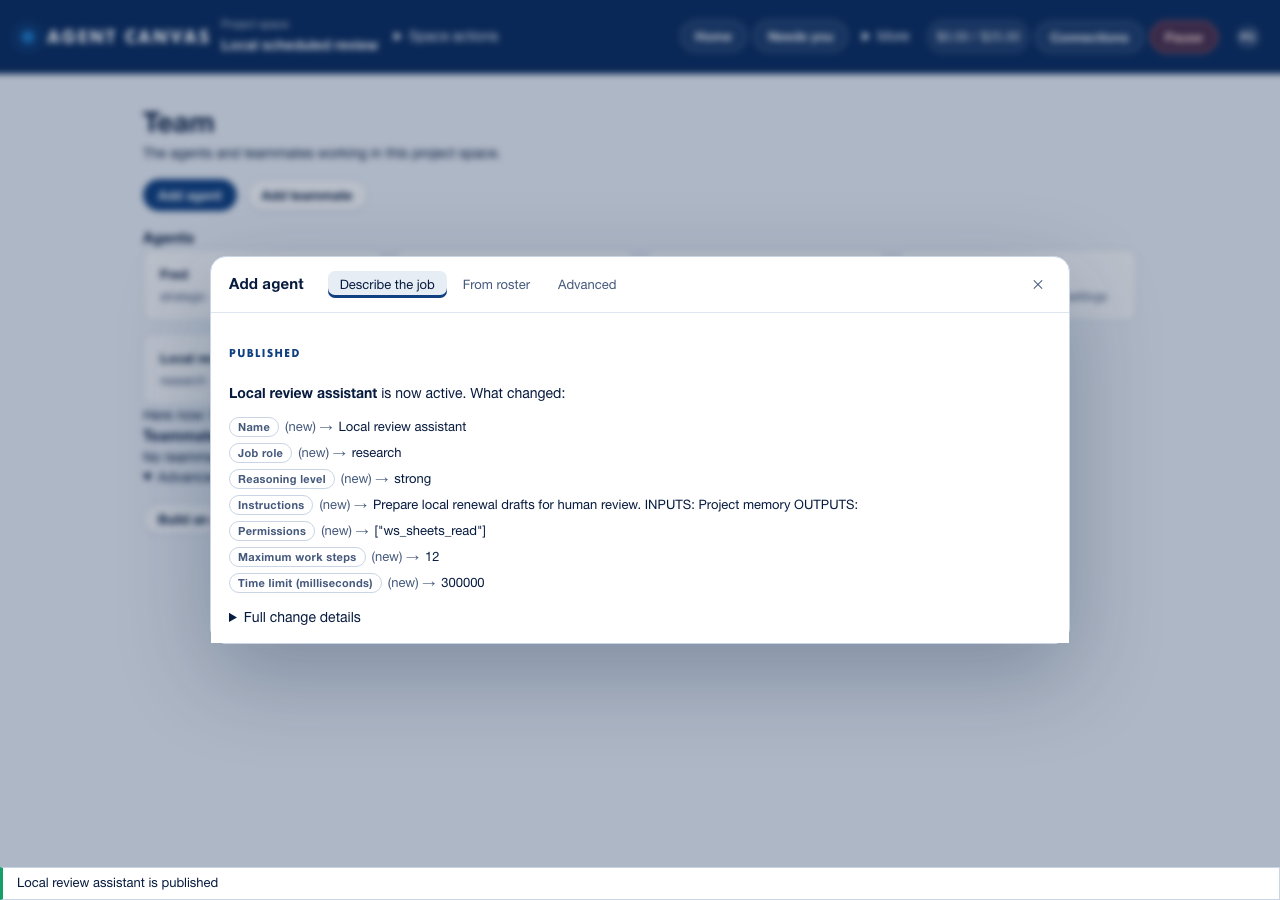
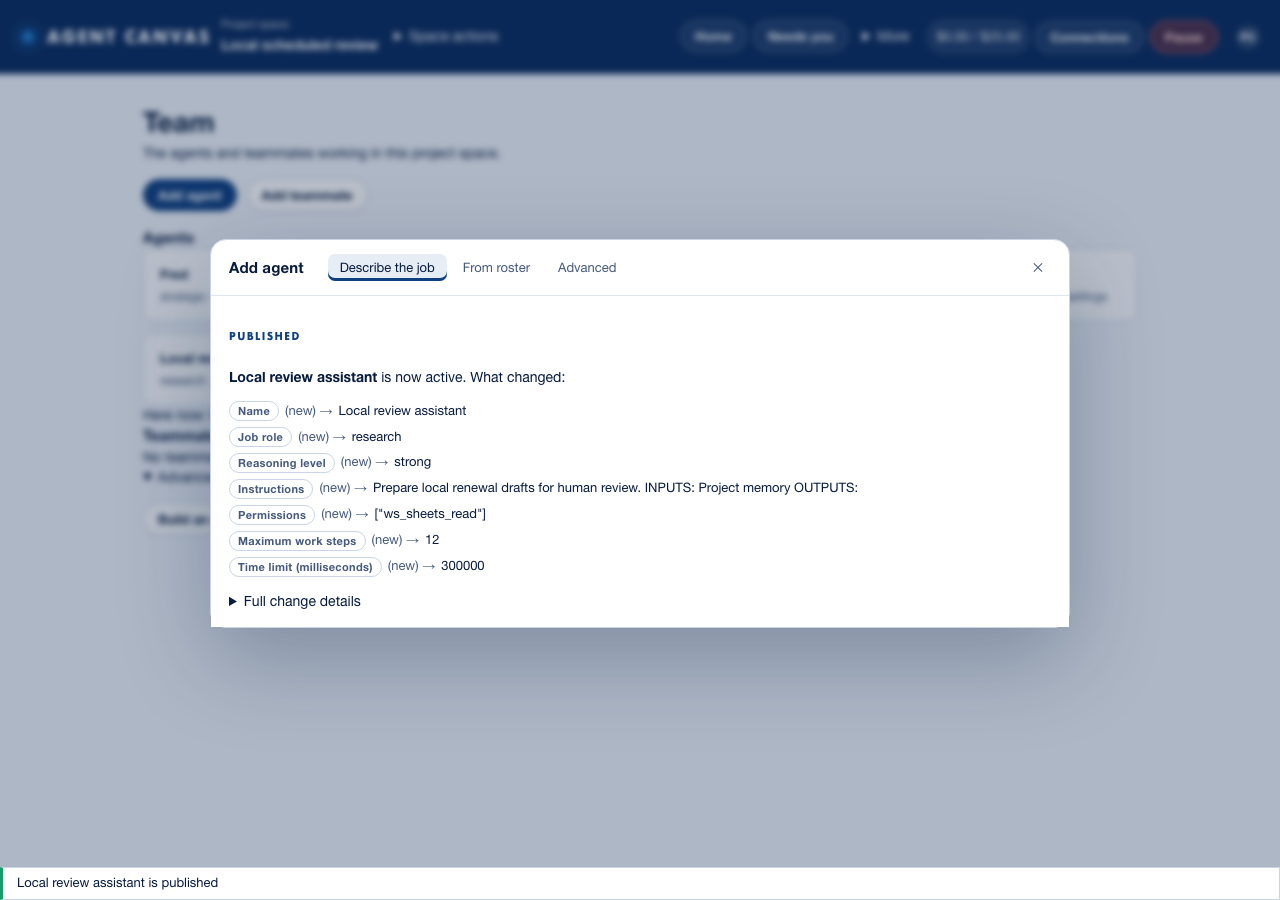
fix(ui): restore owner access removal and unobstructed dialogs

Changed region(s): [[0.1562, 0.2489, 0.8438, 0.7156]]

diff --git a/agent-canvas/scripts/acceptance-test.js b/agent-canvas/scripts/acceptance-test.js
@@ -9,9 +9,10 @@ const { chromium } = require('playwright');
 const output = path.resolve(__dirname, '../docs/screenshots');
 const group = process.argv[2] || 'rooms-memory';
 const evidence = { group, fixture: 'Disposable database; real local routes and development sign-in; stubbed model; no external network. Does not verify Google OAuth or external integrations.', checks: [], screenshots: [], browserErrors: [] };
+if (group === 'owner-diagnostics') evidence.fixture += ' Connector handshake and discovery are test stubs; probe recording and access changes use real server routes.';
 
 function launchFixture() {
-  const child = fork(path.join(__dirname, 'journey-fixture.js'), ['--local', '--acceptance'], { env: { PATH: process.env.PATH, HOME: process.env.HOME }, stdio: ['ignore', 'pipe', 'pipe', 'ipc'] });
+  const child = fork(path.join(__dirname, 'journey-fixture.js'), ['--local', '--acceptance', ...(group === 'owner-diagnostics' ? ['--connector-fixture'] : [])], { env: { PATH: process.env.PATH, HOME: process.env.HOME }, stdio: ['ignore', 'pipe', 'pipe', 'ipc'] });
   let logs = '';
   child.stdout.on('data', (data) => { logs += data; }); child.stderr.on('data', (data) => { logs += data; });
   const ready = new Promise((resolve, reject) => {
@@ -33,12 +34,17 @@ async function more(page, name) {
   await page.getByRole('button', { name, exact: true }).click();
 }
 async function shot(page, suffix, description) {
+  await layout(page);
   const file = `acceptance-${group}-${suffix}.png`;
   await page.screenshot({ path: path.join(output, file), animations: 'disabled' });
   evidence.screenshots.push({ file, description, viewport: page.viewportSize() });
 }
 async function layout(page) {
   assert.ok(await page.evaluate(() => document.documentElement.scrollWidth <= innerWidth + 1), 'No horizontal page overflow');
+  assert.ok(await page.evaluate(() => {
+    const notifications = document.querySelector('.toasts')?.getBoundingClientRect();
+    return !notifications?.height || [...document.querySelectorAll('[role="dialog"]')].every((dialog) => dialog.getBoundingClientRect().bottom <= notifications.top + 1);
+  }), 'Notifications must not cover dialogs');
 }
 async function call(context, url, route, method = 'GET', body) {
   const response = await context.request.fetch(`${url}${route}`, { method, ...(body === undefined ? {} : { data: body }) });
@@ -282,6 +288,122 @@ async function schedulingAndBuilder({ page, context, url, fault, newPage }) {
   evidence.checks.push('Fictional member can propose an agent; publication remains owner-only; Builder has no page overflow at 390px.');
 }
 
+async function ownerAndDiagnostics({ page, context, url, fault, newPage }) {
+  await page.getByRole('button', { name: 'Account', exact: true }).click();
+  await page.getByRole('button', { name: 'Owner settings', exact: true }).click();
+  const dialog = page.getByRole('dialog', { name: 'Owner settings', exact: true });
+  for (const [tab, path, subject] of [['Agent templates', '/api/roster', 'agent templates'], ['Connections', '/api/mcp/servers', 'connections'], ['Audit history', '/api/audit', 'audit history'], ['People and access', '/api/allowlist', 'people and access']]) {
+    fault.current = (request) => new URL(request.url()).pathname === path ? 503 : 0;
+    await dialog.getByRole('tab', { name: tab, exact: true }).click();
+    await dialog.getByText(`Loading ${subject} could not be completed. Check your connection and try again.`, { exact: true }).waitFor();
+    assert.equal(await dialog.getByText(/allowlist is empty|no connectors configured|no audit entries match|No agent templates/).count(), 0);
+    fault.current = null; await dialog.getByRole('button', { name: 'Try again', exact: true }).click();
+    await dialog.locator('.request-error').waitFor({ state: 'detached' });
+  }
+  const testEmail = 'acceptance-fixture@cloudtechgurus.com';
+  await dialog.getByLabel('Email address').fill(testEmail);
+  await dialog.getByLabel('Display name').fill('Local acceptance person');
+  fault.current = (request) => request.url().endsWith('/api/allowlist') && request.method() === 'POST' ? 503 : 0;
+  await dialog.getByRole('button', { name: 'Add', exact: true }).click();
+  await dialog.getByText(/Saving people and access could not be completed/).waitFor();
+  assert.equal(await dialog.getByLabel('Email address').inputValue(), testEmail);
+  fault.current = null; await dialog.getByRole('button', { name: 'Add', exact: true }).click();
+  const person = dialog.locator('tr').filter({ hasText: testEmail }); await person.waitFor();
+  await person.getByRole('button', { name: 'remove', exact: true }).click();
+  await person.waitFor({ state: 'detached' });
+  await dialog.getByRole('tab', { name: 'Agent templates', exact: true }).click();
+  const { roster } = await call(context, url, '/api/roster'); const [first, second] = roster;
+  const template = dialog.locator('tr').filter({ has: page.getByText(first.name, { exact: true }) });
+  await template.getByRole('button', { name: 'edit', exact: true }).click();
+  await dialog.getByLabel('Agent name', { exact: true }).fill(`${first.name} local`);
+  fault.current = (request) => request.url().endsWith(`/api/roster/${first.id}`) && request.method() === 'PATCH' ? 503 : 0;
+  await dialog.getByRole('button', { name: 'Save', exact: true }).click();
+  await dialog.getByText(/Saving agent templates could not be completed/).waitFor();
+  assert.equal(await dialog.getByLabel('Agent name', { exact: true }).inputValue(), `${first.name} local`);
+  fault.current = null; await dialog.getByRole('button', { name: 'Save', exact: true }).click();
+  await dialog.getByRole('button', { name: `Move ${first.name} local down`, exact: true }).waitFor();
+  fault.current = (request) => request.url().endsWith(`/api/roster/${second.id}`) && request.method() === 'PATCH' ? 503 : 0;
+  await dialog.getByRole('button', { name: `Move ${first.name} local down`, exact: true }).click();
+  await dialog.getByText(/Ordering is partly saved/).waitFor();
+  assert.ok(await dialog.getByRole('button', { name: `Move ${first.name} local down`, exact: true }).isDisabled());
+  fault.current = null; await dialog.getByRole('button', { name: 'Finish ordering', exact: true }).click();
+  await dialog.getByText(/Ordering is partly saved/).waitFor({ state: 'detached' });
+  const afterOrder = await call(context, url, '/api/roster');
+  assert.equal(afterOrder.roster.find((entry) => entry.id === first.id).sort, second.sort);
+  assert.equal(afterOrder.roster.find((entry) => entry.id === second.id).sort, first.sort);
+  evidence.checks.push('Every owner table distinguishes unavailable from empty and retries; access add/remove and template edits use real routes; failed drafts persist; partial two-write ordering finishes only the remaining change.');
+
+  await dialog.getByRole('tab', { name: 'Connections', exact: true }).click();
+  await dialog.getByRole('button', { name: 'Add connector', exact: true }).click();
+  await dialog.getByLabel('Connection name').fill('local_acceptance');
+  await dialog.getByLabel('Connection URL').fill('https://connector.agent-canvas.invalid/mcp');
+  await dialog.getByLabel('Connection access', { exact: true }).selectOption('owner');
+  await dialog.getByLabel('Connection headers (JSON)').fill('invalid');
+  await dialog.getByRole('button', { name: 'Create', exact: true }).click();
+  await dialog.getByText('Enter headers as a JSON object, or leave the field empty.', { exact: true }).waitFor();
+  await dialog.getByLabel('Connection headers (JSON)').fill('{}');
+  await dialog.getByRole('button', { name: 'Create', exact: true }).click();
+  const connection = dialog.locator('tr').filter({ has: page.getByText('local_acceptance', { exact: true }) });
+  await connection.getByRole('button', { name: 'Check connection', exact: true }).click();
+  await dialog.getByText('Probe failed: Local fixture connection unavailable', { exact: true }).waitFor();
+  assert.equal(await dialog.locator('.connector-tools input').count(), 0);
+  await shot(page, 'failed-probe', 'A failed connector boundary probe exposes failure and recovery without discovered tools or a green status.');
+  await connection.getByRole('button', { name: 'Check connection', exact: true }).click();
+  await dialog.getByRole('checkbox', { name: 'search Search local fixture records', exact: true }).click();
+  await page.waitForFunction(() => document.querySelector('.connector-tools input')?.checked === true);
+  await connection.getByLabel('Access to local_acceptance').selectOption('members');
+  await page.waitForFunction(() => !document.querySelector('[aria-label="Access to local_acceptance"]').disabled);
+  await connection.getByLabel('Access to local_acceptance').selectOption('owner');
+  await page.waitForFunction(() => !document.querySelector('[aria-label="Access to local_acceptance"]').disabled);
+  const { servers } = await call(context, url, '/api/mcp/servers'); const savedConnection = servers.find((server) => server.name === 'local_acceptance');
+  assert.equal(savedConnection.access, 'owner'); assert.deepEqual(savedConnection.enabledTools, ['search']);
+  evidence.checks.push('Connection form validation, failed probe/recovery, discovered tool checkbox and serialized access changes; connector boundary stubbed, configuration/probe-record/audit routes real.');
+
+  await dialog.getByRole('tab', { name: 'Audit history', exact: true }).click();
+  await dialog.getByText('✓ chain verified', { exact: true }).waitFor();
+  fault.current = (request) => new URL(request.url()).pathname === '/api/audit' ? 503 : 0;
+  await dialog.getByRole('button', { name: 'Refresh', exact: true }).click();
+  await dialog.getByText('Audit verification is unavailable until this check succeeds.', { exact: true }).waitFor();
+  assert.equal(await dialog.getByText('✓ chain verified', { exact: true }).count(), 0);
+  fault.current = null; await dialog.getByRole('button', { name: 'Try again', exact: true }).click();
+  await dialog.getByText('✓ chain verified', { exact: true }).waitFor();
+  await dialog.getByLabel('Filter audit action').fill('no.such.action');
+  await dialog.getByText('no audit entries match', { exact: true }).waitFor();
+  await dialog.getByLabel('Filter audit action').fill('');
+  await dialog.getByLabel('Audit result limit').selectOption('50');
+  await dialog.getByText('✓ chain verified', { exact: true }).waitFor();
+  await shot(page, 'audit', 'Audit chain is checked by the real local server; a failed refresh cleared its old verification claim.');
+  fault.current = (request) => request.url().endsWith('/api/export') ? 503 : 0;
+  await dialog.getByRole('button', { name: 'Download operational ledger', exact: true }).click();
+  await dialog.getByText(/Downloading the operational ledger could not be completed/).waitFor();
+  fault.current = null; const downloadEvent = page.waitForEvent('download');
+  await dialog.getByRole('button', { name: 'Try again', exact: true }).click();
+  const ledger = JSON.parse(fs.readFileSync(await (await downloadEvent).path(), 'utf8')); assert.ok(Array.isArray(ledger.memory_entries));
+  await page.setViewportSize({ width: 390, height: 844 }); await layout(page);
+  await shot(page, 'mobile-owner', 'Owner tools remain scrollable and reachable at 390px.');
+  await dialog.getByRole('button', { name: 'Close', exact: true }).click();
+  await page.setViewportSize({ width: 1280, height: 900 });
+  await page.getByRole('button', { name: 'Create a project space', exact: true }).click();
+  await page.getByLabel('Project-space name').fill('Local diagnostics');
+  await page.getByRole('button', { name: 'Create', exact: true }).click();
+  await page.getByRole('heading', { name: 'Ask the company.' }).waitFor();
+  await page.getByLabel('Ask a question about the company').fill('Review the local checklist.');
+  await page.getByRole('button', { name: 'Ask', exact: true }).click();
+  await page.getByText(/This local test answer has no external sources/).waitFor();
+  await page.locator('.primary-nav summary').filter({ hasText: /^More$/ }).click();
+  await page.locator('.primary-nav summary').filter({ hasText: /^Advanced$/ }).click();
+  await page.locator('.primary-nav').getByRole('button', { name: 'Activity', exact: true }).click();
+  await page.locator('.dock-head').click();
+  assert.equal(await page.locator('.dock-filters button[aria-pressed="true"]').count(), 7);
+  for (const button of await page.locator('.dock-filters button').all()) await button.click();
+  await page.getByText('No activity matches these filters. Select more categories or all agents.', { exact: true }).waitFor();
+  const member = await newPage('teammate@agent-canvas.invalid');
+  await member.page.getByRole('button', { name: 'Account', exact: true }).click();
+  assert.equal(await member.page.getByRole('button', { name: 'Owner settings', exact: true }).count(), 0);
+  await member.context.close();
+  evidence.checks.push('Audit verified/unavailable/no-matches states, result limit, ledger download failure/retry, all seven activity filters, mobile owner layout and member ownership gate.');
+}
+
 (async () => {
   const fixture = launchFixture(); let browser;
   try {
@@ -303,13 +425,14 @@ async function schedulingAndBuilder({ page, context, url, fault, newPage }) {
       return { context, page };
     };
     const owner = await newPage('pete@cloudtechgurus.com');
-    const run = { 'rooms-memory': roomsAndMemory, 'scheduling-builder': schedulingAndBuilder }[group];
+    const run = { 'rooms-memory': roomsAndMemory, 'scheduling-builder': schedulingAndBuilder, 'owner-diagnostics': ownerAndDiagnostics }[group];
     assert.ok(run, 'Unknown acceptance group');
     try { await run({ ...owner, url, fault, newPage }); }
-    catch (error) { await owner.page.screenshot({ path: '/tmp/agent-canvas-acceptance-failure.png' }); throw error; }
+    catch (error) { await owner.page.screenshot({ path: '/tmp/agent-canvas-acceptance-failure.png' }); console.error('Visible recovery details:', await owner.page.getByRole('alert').allTextContents()); throw error; }
     const snapshot = await fixture.snapshot();
     assert.equal(snapshot.externalAttempts, 0); assert.deepEqual(evidence.browserErrors, []);
     evidence.bootCounts = bootCounts; evidence.externalAttempts = snapshot.externalAttempts;
+    if (group === 'owner-diagnostics') { assert.equal(snapshot.connectorProbeCalls, 2); evidence.connectorProbeCalls = snapshot.connectorProbeCalls; }
     fs.writeFileSync(path.join(output, `acceptance-${group}.json`), `${JSON.stringify(evidence, null, 2)}\n`);
     console.log(`${group}: ${evidence.checks.length} acceptance groups passed; no browser errors or external calls.`);
   } finally { await browser?.close(); await fixture.stop(); }

diff --git a/agent-canvas/scripts/journey-fixture.js b/agent-canvas/scripts/journey-fixture.js
@@ -9,6 +9,7 @@ const http = require('node:http');
 const https = require('node:https');
 const local = process.argv.includes('--local');
 const acceptance = process.argv.includes('--acceptance');
+const connectorFixture = process.argv.includes('--connector-fixture');
 const identity = local ? { email: 'pete@cloudtechgurus.com', role: 'owner' }
   : { email: 'teammate@agent-canvas.invalid', role: 'member' };
 if (!local && process.env.AGENT_CANVAS_JOURNEY_FIXTURE !== '1') throw new Error('Start this test fixture through npm run test:journeys or npm run preview:journeys.');
@@ -53,6 +54,19 @@ runner._internal.setCallModel(async ({ messages }) => {
     : 'Check the renewal date, account owner and open risks. Prepare a short checklist for review. This local test answer has no external sources.');
 });
 const { db } = require('../server/db');
+let connectorProbeCalls = 0;
+if (connectorFixture) {
+  // Stub ONLY the connector boundary for owner acceptance. Config, permission
+  // saves, server probe recording and audit routes still execute normally.
+  const mcp = require('../server/mcp/client');
+  mcp.refreshDefs = async () => [];
+  mcp.probeServer = async () => {
+    connectorProbeCalls += 1;
+    if (connectorProbeCalls === 1) throw new Error('Local fixture connection unavailable');
+    return { ok: true, ms: 1 };
+  };
+  mcp.discoverTools = async () => [{ name: 'search', description: 'Search local fixture records', inputSchema: { type: 'object', properties: {} } }];
+}
 const { audit } = require('../server/audit');
 require('../server/bus').on('event', (event) => {
   if (event.type === 'escalation' && event.escalation?.question === 'Should we prepare the renewal checklist?') {
@@ -66,7 +80,7 @@ const bootCounts = Object.fromEntries(contentTables.map((table) => [table, db.pr
 assert.ok(Object.values(bootCounts).every((count) => count === 0), 'Fresh boot must have no fabricated product content');
 function snapshot() {
   return {
-    bootCounts, externalAttempts, identity,
+    bootCounts, externalAttempts, identity, connectorProbeCalls,
     inquiries: db.prepare('SELECT question, mode, status FROM inquiries ORDER BY created_at').all(),
     decisions: db.prepare("SELECT content, epistemic, source FROM memory_entries WHERE source LIKE 'escalation % resolution'").all(),
     escalations: db.prepare('SELECT question, status, owner_email FROM escalations').all(),

diff --git a/agent-canvas/frontend/src/api.js b/agent-canvas/frontend/src/api.js
@@ -4,7 +4,7 @@
 // Only these characters may appear in a caller-supplied API path. Rejects
 // scheme separators, hosts, backslashes, and dot segments outright, so no input
 // can express anything but a relative path on this origin's own API.
-const API_PATH = /^\/api(?:\/[A-Za-z0-9._~-]+)*\/?(?:\?[A-Za-z0-9._~=&%-]*)?$/;
+const API_PATH = /^\/api(?:\/(?:[A-Za-z0-9._~-]|%[0-9A-Fa-f]{2})+)*\/?(?:\?[A-Za-z0-9._~=&%-]*)?$/;
 
 function hasUnsafePathSegment(candidate) {
   const pathname = candidate.split('?', 1)[0];
@@ -15,7 +15,7 @@ function hasUnsafePathSegment(candidate) {
     // deliberately not inspected because they cannot change URL path shape.
     for (let i = 0; i < 2; i += 1) {
       try { decoded = decodeURIComponent(decoded); } catch { return true; }
-      if (decoded === '.' || decoded === '..' || decoded.includes('/') || decoded.includes('\\')) return true;
+      if (decoded === '.' || decoded === '..' || decoded.includes('/') || decoded.includes('\\') || /[\u0000-\u001f\u007f]/.test(decoded)) return true;
       if (!decoded.includes('%')) break;
     }
     return false;

diff --git a/agent-canvas/frontend/test/api-upload.test.jsx b/agent-canvas/frontend/test/api-upload.test.jsx
@@ -40,11 +40,23 @@ describe('raw upload API bodies', () => {
     });
   });
 
+  it('allows an encoded email path so owners can remove people, including plus-addresses', async () => {
+    const path = `/api/allowlist/${encodeURIComponent('local+review@cloudtechgurus.com')}`;
+    await api(path, { method: 'DELETE' });
+    expect(fetch).toHaveBeenCalledWith(path, expect.objectContaining({ method: 'DELETE' }));
+  });
+
   it.each([
     '/api/canvases/../files',
     '/api/canvases/%2e%2e/files',
     '/api/canvases/%252E%252E/files',
     '/api/canvases/..%2Fsecret/files',
+    '/api/allowlist/%2F%2Fevil.example',
+    '/api/allowlist/%5Cevil.example',
+    '/api/allowlist/%252Fsecret',
+    '/api/allowlist/%00email',
+    '/api/allowlist/%GG',
+    'https://evil.example/api/allowlist',
   ])('still rejects path traversal: %s', async (path) => {
     await expect(api(path)).rejects.toThrow('invalid API path');
     expect(fetch).not.toHaveBeenCalled();

diff --git a/agent-canvas/frontend/src/styles.css b/agent-canvas/frontend/src/styles.css
@@ -1793,7 +1793,9 @@ button:focus-visible, a:focus-visible, [role="button"]:focus-visible, label:focu
 
 /* Reserve space for notifications so they never cover controls or answers. */
 #root { display: flex; flex-direction: column; }
-.workspace { flex: 1; min-height: 0; }
+.workspace { flex: 1; min-height: 0; position: relative; }
+.workspace .modal-overlay { position: absolute; }
+.workspace .modal-overlay .modal { max-height: calc(100% - 24px); }
 .toasts { position: static; flex: 0 0 auto; max-height: 18vh; overflow: auto; gap: 0; width: 100%; }
 .toasts:empty { display: none; }
 .toast { min-width: 0; max-width: none; border-radius: 0; padding: 6px 14px; box-shadow: none; }

diff --git a/agent-canvas/docs/SIMPLIFICATION.md b/agent-canvas/docs/SIMPLIFICATION.md
@@ -41,7 +41,7 @@ inspection does not claim a live service check. No operation is retired.
 | Sources: links, privacy/redaction | Keep-as-is | Answers, Sources and details, Rooms | Existing access | 3,6A | [Saved work] (external evidence/retry) + [Room exports] (disclosure) |
 | Dialogs: Close, Cancel, Back, Escape/focus return | Keep-as-is | Every existing dialog/panel | Existing access | 2–6C | [Dialogs] (Escape/trap/return) + [Journey] (Connections Escape) |
 | Account: identity, Sign out | Keep-as-is | Account | Signed in | 2,5 | [Workspace] (sign-out failure) + [Startup] (expiry); [Header source] inspection |
-| Owner: operational ledger download | Keep-as-is | Account → Owner settings | Owner | 6C | [Requests] (bounded download) + [Admin source] inspection: Download operational ledger |
+| Owner: operational ledger download | Keep-as-is | Account → Owner settings | Owner | 6C | [Requests] (bounded download) + [Admin source] inspection: Download operational ledger + [Owner acceptance evidence] |
 | Workspace: canvas selector/name | Simplify | Project-space picker | Existing access | 5 | [Workspace] + [Journey] (active name/create); [Header source] inspection: picker |
 | Workspace: new canvas, name, Create/Cancel | Simplify | Space actions → New project space | Existing create | 5 | [Workspace] (fresh/create/team) + [Journey] (empty boot → creation) |
 | Creation: six teams, agent preview | Simplify | Team selector, all six teams | Existing create | 5 | [Workspace] (stable roster and team choices); [Header source] inspection: all six options |
@@ -88,13 +88,13 @@ inspection does not claim a live service check. No operation is retired.
 | Builder: publish/template/change details | Move-to-Advanced | Same builder | Owner publication | 6B | [Builder] (publish/diff) + [Authority] + [Builder source] inspection: template option + [Scheduled work and Builder evidence] |
 | Custom agent: name/role/tier/color/prompt/Add/Cancel | Move-to-Advanced | Team → Advanced → Custom agent | Existing edit | 5 | [Context source] + [Add agent source] inspection: all manual fields and Add/Cancel retained |
 | Rules: step/time budgets, technical occurrence details | Move-to-Advanced | Advanced settings/details; limits still on consent | Existing authority | 6B | [Rules] + [Scheduling] + [Rules source] inspection: limits and occurrences + [Scheduled work and Builder evidence] |
-| Activity: expand/filter agent/seven categories/handoff highlight | Move-to-Advanced | Advanced → Activity | Existing access | 5,6C | [Owner] (seven filters/no matches/error) + [Activity source] inspection: handoff selection |
+| Activity: expand/filter agent/seven categories/handoff highlight | Move-to-Advanced | Advanced → Activity | Existing access | 5,6C | [Owner] (seven filters/no matches/error) + [Activity source] inspection: handoff selection + [Owner acceptance evidence] |
 | Systems: provider/model/queue/segments/live link/board | Move-to-Advanced | Connections → Advanced details | Existing access | 2,5 | [Startup] (honest status) + [Capabilities source] inspection: labelled HUD details |
 | Spending: tokens/monthly/per-agent/analytics | Move-to-Advanced | Spending → Advanced details | Existing access | 6C | [Owner] (unknown history/statistics) + [Panels source] inspection: advanced spending |
-| Allowlist: email/name/role/add/remove | Move-to-Advanced | Owner settings → People and access | Owner | 6C | [Owner] (failed table/invite/draft) + [Admin source] inspection: roles/remove |
-| Roster: add/edit/name/role/tier/color/prompt/default/enabled/order | Move-to-Advanced | Owner settings → Agent templates | Owner | 6C | [Owner] (retained editor/partial ordering) + [Admin source] inspection: all fields/toggles |
-| Connector: add/name/URL/access/headers/roles/enabled/probe/tools/refused details | Move-to-Advanced | Owner settings → Connections | Owner | 6C | [Owner] (serialized edits) + [Connectors] + [Admin source] inspection: probe/tools/refusals |
-| Audit: action/limit/refresh/chain/entries | Move-to-Advanced | Owner settings → Audit history | Owner | 6C | [Owner] (failed chain invalidation) + [Admin source] inspection: action/limit/refresh |
+| Allowlist: email/name/role/add/remove | Move-to-Advanced | Owner settings → People and access | Owner | 6C | [Owner] (failed table/invite/draft) + [Admin source] inspection: roles/remove + [Owner acceptance evidence] |
+| Roster: add/edit/name/role/tier/color/prompt/default/enabled/order | Move-to-Advanced | Owner settings → Agent templates | Owner | 6C | [Owner] (retained editor/partial ordering) + [Admin source] inspection: all fields/toggles + [Owner acceptance evidence] |
+| Connector: add/name/URL/access/headers/roles/enabled/probe/tools/refused details | Move-to-Advanced | Owner settings → Connections | Owner | 6C | [Owner] (serialized edits) + [Connectors] + [Admin source] inspection: probe/tools/refusals + [Owner acceptance evidence] |
+| Audit: action/limit/refresh/chain/entries | Move-to-Advanced | Owner settings → Audit history | Owner | 6C | [Owner] (failed chain invalidation) + [Admin source] inspection: action/limit/refresh + [Owner acceptance evidence] |
 | Canvas: archive/list archived/restore | Move-to-Advanced | Space actions → Owner actions | Owner | 5 | [Workspace] (archive/empty) + [Archive] + [Header source] inspection: restore path |
 | Spending: daily budget edit | Move-to-Advanced | Spending → Owner settings, including before a space exists | Owner | 3,6C,7 follow-up | [Saved work] + [Workspace] (role and saved-cap validation) + [Owner] + [Safety] |
 | Home composer + permanent CommandBar | Merge | One Home composer; parser under Advanced | Existing edit | 5 | [Simplified] (one composer) + [Journey] (one textbox) |
@@ -349,6 +349,23 @@ original values remain under Full change details. Three screenshots inspected,
 including a member at 390px.
 Full gate: 433 backend / 186 frontend tests; both production audits clean.
 
+Owner tools/diagnostics browser acceptance: `npm run test:acceptance -- owner-diagnostics`.
+[Owner acceptance evidence] records failures/retries for every owner table,
+retained access/template edits, actual access add/remove, a partially saved reorder
+and its remaining write, connector form validation/probe recovery/tool selection,
+serialized access changes, audit verification invalidation/recovery/filtering,
+ledger download recovery, all seven activity filters, and member/owner controls.
+Three screenshots inspected, including 390px owner tools. Connector handshake and
+discovery are stubbed; configuration, authorization, probe recording and audit
+routes remain real and local. No external connection success is claimed.
+Fixed the frontend path allowlist rejecting encoded email addresses, which blocked
+owner access removal. The path guard accepts well-formed percent encoding and
+still rejects traversal, encoded separators, control characters and other origins.
+Screenshot review also found notifications covering the bottom of owner dialogs.
+Dialogs now fit the workspace above notifications; browser checks assert their
+rectangles do not overlap at desktop and mobile sizes.
+Full gate: 433 backend / 193 frontend tests; both production audits clean.
+
 ## Local acceptance and deferred release
 
 Agent Canvas remains a folder within the second-brain repository. Pete directed
@@ -369,10 +386,10 @@ implementation remains split into these independently verified changes:
 | 7 | `291292b`, `c8b17d6` | Journey evidence and Pete preview identity |
 | Follow-up | After `c8b17d6` on the simplification branch | First-boot spending and guided acceptance record |
 
-The next local acceptance groups are Rooms/Memory, Scheduled work/Builder and
-owner tools/diagnostics. Exercise real local routes in a disposable browser fixture,
-inject failed requests, fix discovered regressions, and rerun the complete gate
-and both audits after each group. Source inspection and component tests remain
+Rooms/Memory, Scheduled work/Builder and owner tools/diagnostics have each
+completed local browser acceptance, recovery checks and a separate full gate.
+The remaining human acceptance is an unaided walkthrough from the current guide;
+Pete's earlier walkthrough was guided. Source inspection and component tests remain
 distinct from browser evidence. Google OAuth and external integration acceptance
 remain unverified; local fixtures do not authorize or prove live access.
 
@@ -381,6 +398,7 @@ remain unverified; local fixtures do not authorize or prove live access.
 [Acceptance runner]: ../scripts/acceptance-test.js
 [Room and memory evidence]: screenshots/acceptance-rooms-memory.json
 [Scheduled work and Builder evidence]: screenshots/acceptance-scheduling-builder.json
+[Owner acceptance evidence]: screenshots/acceptance-owner-diagnostics.json
 [Workspace]: ../frontend/test/workspace-cleanup.test.jsx
 [Safety]: ../test/orchestrator-safety.test.js
 [Owner]: ../frontend/test/owner-reliability.test.jsx

diff --git a/agent-canvas/docs/HANDOFF.md b/agent-canvas/docs/HANDOFF.md
@@ -25,10 +25,10 @@ scheduling/Builder edits, recoverable polling and confirmed rehearsal gates. Pha
 adds honest owner tables, retained edits, partial-order recovery, bounded downloads
 and unverified configuration labels. Phase 7 verifies all four member journeys at
 1280/390px, queue recovery, 768px and actual 200% zoom; all 16 images inspected.
-Latest local gate: 433 backend / 186 frontend tests; both production audits clean.
+Latest local gate: 433 backend / 193 frontend tests; both production audits clean.
 Pete completed the guided walkthrough. Local acceptance covers Room exports/recovery,
-permissions, memory correction/history, restored certainty symbols, scheduling and Builder;
-new Rooms select their project and Builder keeps published changes open for review. See [SIMPLIFICATION.md](SIMPLIFICATION.md). Production observations below are historical; no new production probe, push or deployment was performed.
+permissions, memory correction/history, certainty, scheduling, Builder and owner tools;
+Room selection, published-change review and owner access removal are fixed. See [SIMPLIFICATION.md](SIMPLIFICATION.md). Production observations below are historical; no new production probe, push or deployment was performed.
 
 ## Current production state
 

diff --git a/agent-canvas/USER-GUIDE.md b/agent-canvas/USER-GUIDE.md
@@ -110,6 +110,10 @@ queue** checks now. Lists show the latest bounded results, not a complete archiv
 - **Account:** appearance, sign out, and owner settings. **Space actions** keeps
   creation, owner archive and restoration. The owner ledger download is an
   operational export under Owner settings, not a complete restorable backup.
+  Under **Owner settings → People and access**, enter the teammate's email,
+  optional name and role, then Add. Remove revokes that person's workspace access.
+  A failed change keeps its error visible; Check saved status confirms the current list.
+  Notices sit below your workspace; dialogs resize so notices do not cover their controls.
 - **More → Help:** a short version of the four journeys above.
 
 ## The team
